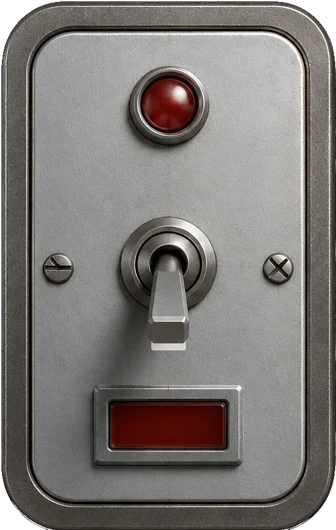
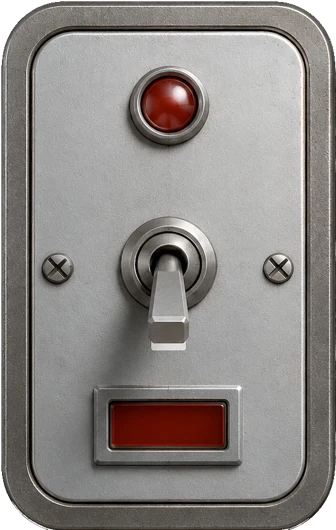
El tornillo izquierdo del Pilder ya no cambia de tipo al accionar la palanca
Lo vio el usuario: en el encendido era de cruz y en el apagado de ranura. Son
dos renders independientes, así que detalles así no tenían por qué coincidir —
pero un tornillo no cambia de tipo porque muevas una palanca.

Arreglado copiando el tornillo DERECHO de cada imagen sobre su propio
izquierdo, no el de una foto sobre la otra: así cada parche trae la iluminación
de su propia foto y no se mezcla la luz roja del encendido con la plancha fría
del apagado. Borde difuminado en 9px y brillo igualado con el anillo de metal
que rodea a cada tornillo, porque la plancha no está iluminada igual a
izquierda y derecha (factor 0.75).

⚠ El primer intento salió descentrado 28px: localicé el tornillo por "la fila
más oscura" y en el lado derecho eso era una sombra, no el tornillo. Se ve a la
primera MIRANDO el resultado. Ahora es por centro de masa del blob oscuro en
ventana estrecha, con el umbral sacado de la propia plancha de esa zona:
izquierdo (92,452) y derecho (460,452) — misma altura, ~55px de diámetro.

Las imágenes cambiaron, así que van con ?v=2: sin eso el navegador seguiría
sirviendo las viejas y no se vería nada del arreglo.

diff --git a/docs/styles.css b/docs/styles.css
@@ -978,8 +978,8 @@ button:disabled {
      Quedan 70ms para que el salto no sea un corte seco. */
   transition: opacity 0.07s linear;
 }
-.pilder-off { background-image: url('pilder-off.webp?v=1'); }
-.pilder-on  { background-image: url('pilder-on.webp?v=1'); opacity: 0; }
+.pilder-off { background-image: url('pilder-off.webp?v=2'); }
+.pilder-on  { background-image: url('pilder-on.webp?v=2'); opacity: 0; }
 
 /* Encendido = la palanca arriba, pero por motivos distintos según el control.
    En un INTERRUPTOR manda solo `activo`: es el estado del aparato.
@@ -1002,7 +1002,7 @@ button:disabled {
 /* La muestra del Locker: el panel entero no cabe en un círculo de 58px, así
    que se encuadra en la palanca, que es lo que lo identifica. */
 .skin-muestra.muestra-pilder {
-  background-image: url('pilder-on.webp?v=1');
+  background-image: url('pilder-on.webp?v=2');
   background-size: 190%;
   background-position: 50% 46%;
 }

diff --git a/docs/index.html b/docs/index.html
@@ -15,7 +15,7 @@
        fuente del sistema y la propia entra cuando baja. -->
   <link rel="stylesheet" href="https://fonts.googleapis.com/css2?family=Josefin+Sans:wght@300;400;600&family=Fredoka:wght@500;600&display=swap" media="print" onload="this.media='all'">
   <noscript><link rel="stylesheet" href="https://fonts.googleapis.com/css2?family=Josefin+Sans:wght@300;400;600&family=Fredoka:wght@500;600&display=swap"></noscript>
-  <link rel="stylesheet" href="styles.css?v=308">
+  <link rel="stylesheet" href="styles.css?v=309">
 </head>
 <body>
   <header>
